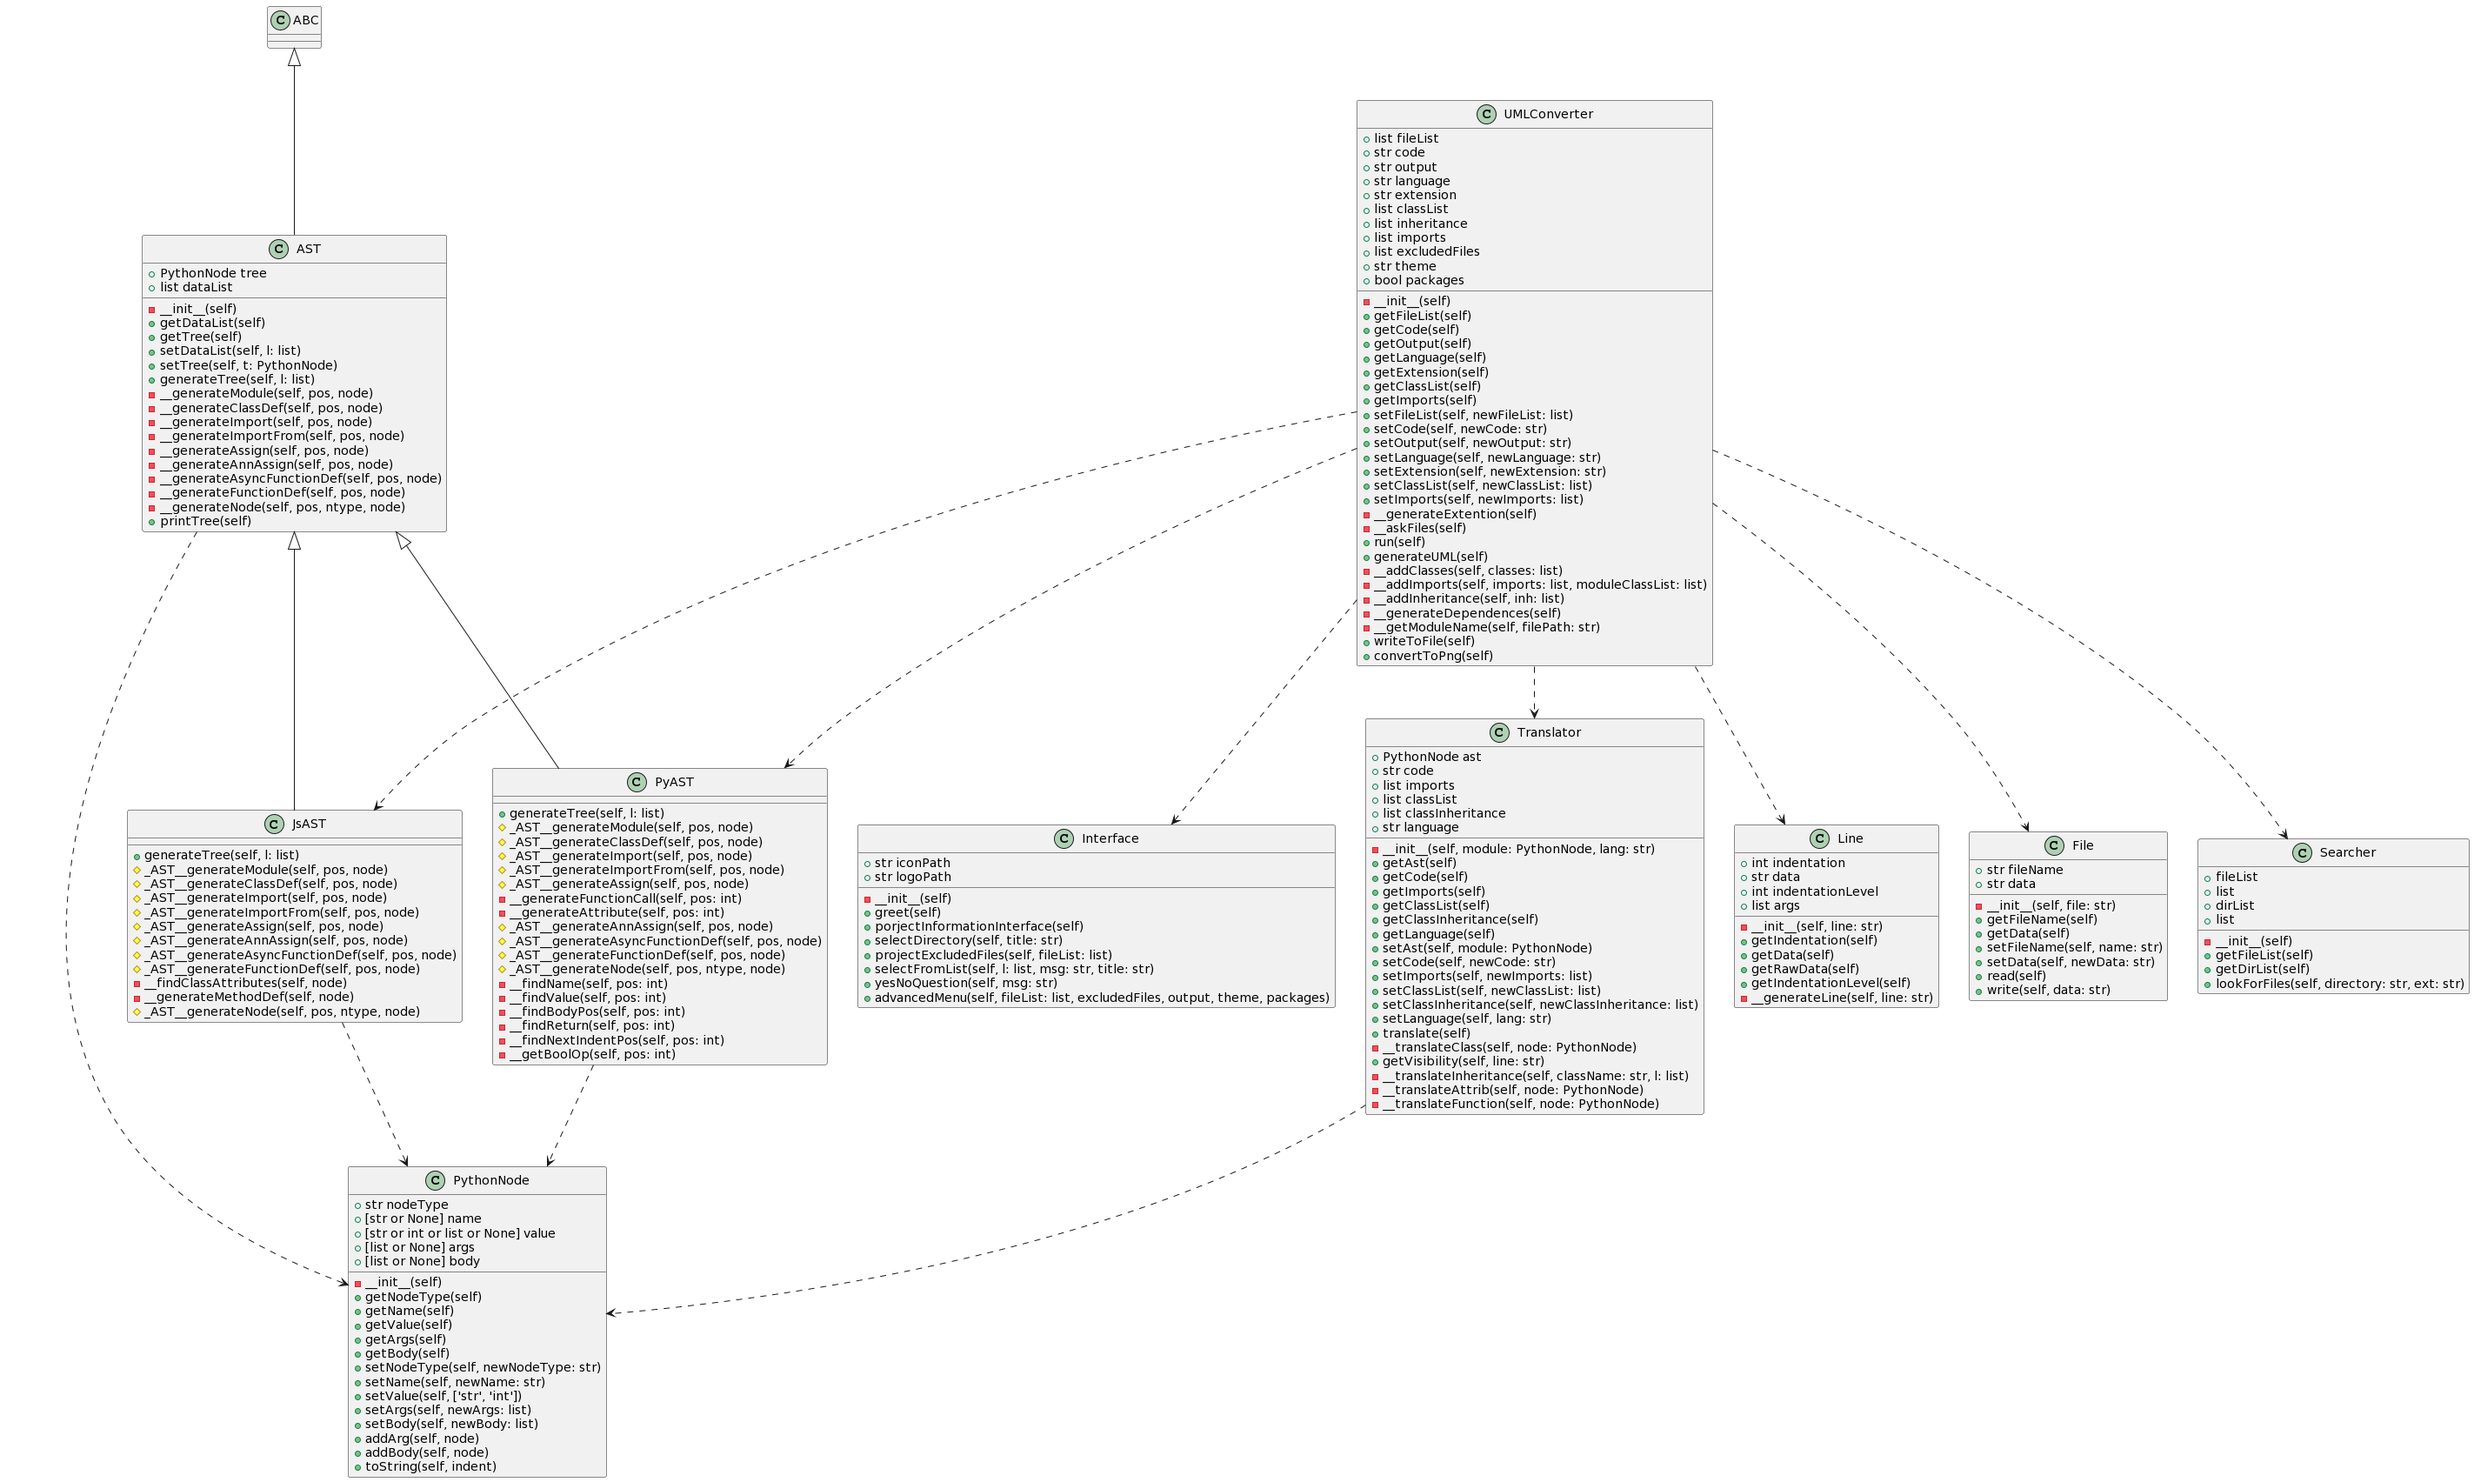
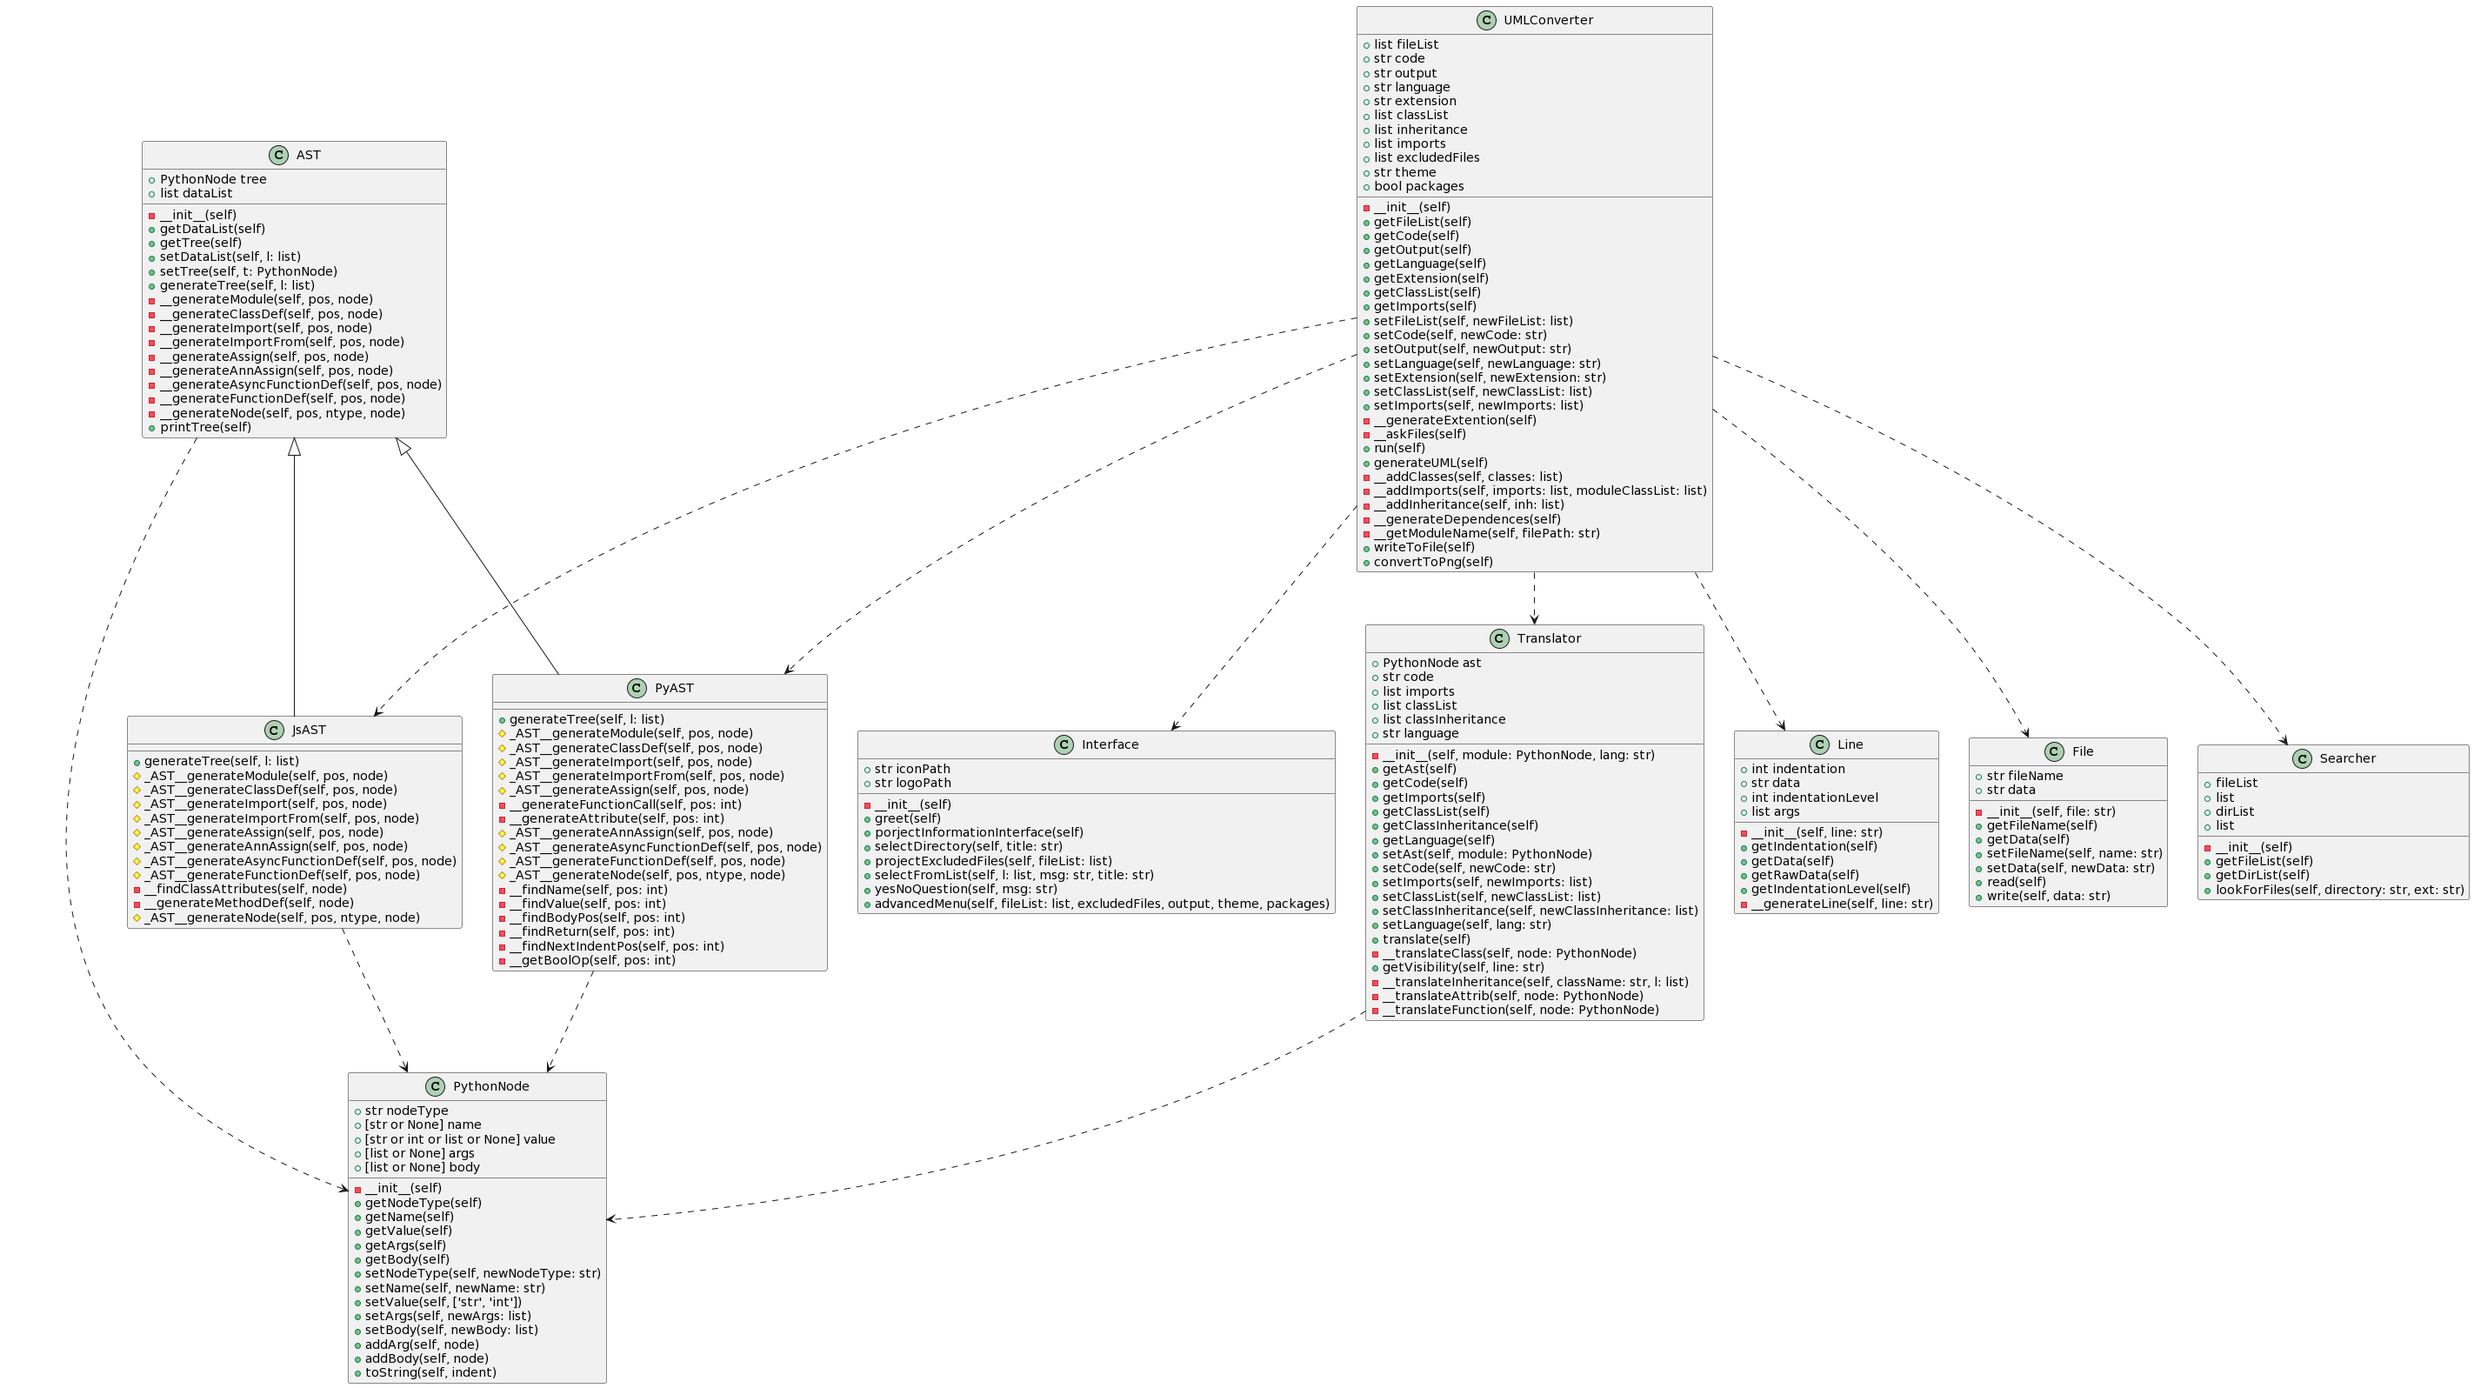
Deleted inheritance from ABC for Python

diff --git a/app/modules/interface_module/interface.py b/app/modules/interface_module/interface.py
@@ -7,7 +7,7 @@
 #   @Email:              adrianepi@gmail.com
 #   @GitHub:             https://github.com/AdrianEpi
 #   @Last Modified by:   Adrian Epifanio
-#   @Last Modified time: 2023-02-02 11:44:42
+#   @Last Modified time: 2023-02-02 11:52:37
 #   @Description:        ...
 
 from app.modules.utils import LANGUAGES, UMLTHEMES
@@ -17,18 +17,8 @@ import sys
 import os
 
 from tkinter import *
-from PIL import ImageTk,Image
+from PIL import ImageTk, Image
 
-
-
-#root.image("./img/logo/267x150.png")
-#root.iconbitmap(default = './img/icon/25x25.ico')
-
-
-#root.mainloop()
-#root.create_image(20,20, anchor=NW, image=PhotoImage(file="./img/logo/267x150.png"))  
-#root.destroy()
-#root.iconify()
 
 class Interface:
 	"""
@@ -55,9 +45,6 @@ class Interface:
 		"""
 		Shows a prompt where greets the user.
 		""" 
-		
-
-
 		def close(item):
 			root.destroy()
 			return True
@@ -65,20 +52,12 @@ class Interface:
 		root = Tk() 
 		root.title("UMLConverter")
 		root.iconbitmap(default = self.iconPath)
-		#icon = PhotoImage(file = iconPath)
-		#root.iconphoto(False, icon)
 		root.geometry("500x220")
 		img = ImageTk.PhotoImage(Image.open(self.logoPath))
 		Button(root, image=img, text="AA", command =lambda: close(root)).pack()
 		Button(root, text="Start ", command = lambda: close(root)).place(x=240, y=180)
 		root.mainloop()
-		  
 		
-
-
-		#root.mainloop()
-		#easygui.msgbox("\n\n\n\t\tWelcome to UMLCoverter!")
-
 
 	def porjectInformationInterface(self) -> list:
 		"""
@@ -130,8 +109,6 @@ class Interface:
 		msg = "Do you want to finish config and start building?"
 		choices = ["Build", "Exclude Files", "Choose Theme", "Packages", "Exit"]
 		reply = easygui.buttonbox(msg, choices = choices, image = self.logoPath)
-		#reply = easygui.buttonbox(msg, choices = choices)
-
 
 		if reply == "Build":
 			result = {

diff --git a/app/modules/uml_module/translator.py b/app/modules/uml_module/translator.py
@@ -7,7 +7,7 @@
 #   @Email:              adrianepi@gmail.com
 #   @GitHub:             https://github.com/AdrianEpi
 #   @Last Modified by:   Adrian Epifanio
-#   @Last Modified time: 2023-01-31 13:20:20
+#   @Last Modified time: 2023-02-02 11:59:13
 #   @Description:        Translates generated AST to mermaid language.
 
 
@@ -282,8 +282,9 @@ class Translator:
 		inheritance.append(className)
 		for i in l:
 			if isinstance(i, str):
-				inheritance.append(i)
-				string += i + " <|-- " + className
+				if (i != "ABC") and self.language == "Python":
+					inheritance.append(i)
+					string += i + " <|-- " + className
 			elif isinstance(i, PythonNode):
 				inheritance.append(i.getName())
 				string += i.getName() + " <|-- " + className
@@ -291,7 +292,8 @@ class Translator:
 				raise TypeError("Error, not valid inheritance type in Translator:translateInheritance()")
 
 			string += "\n"
-		self.classInheritance.append(inheritance)
+		if (len(inheritance) > 1):
+			self.classInheritance.append(inheritance)
 		return string
 
 
